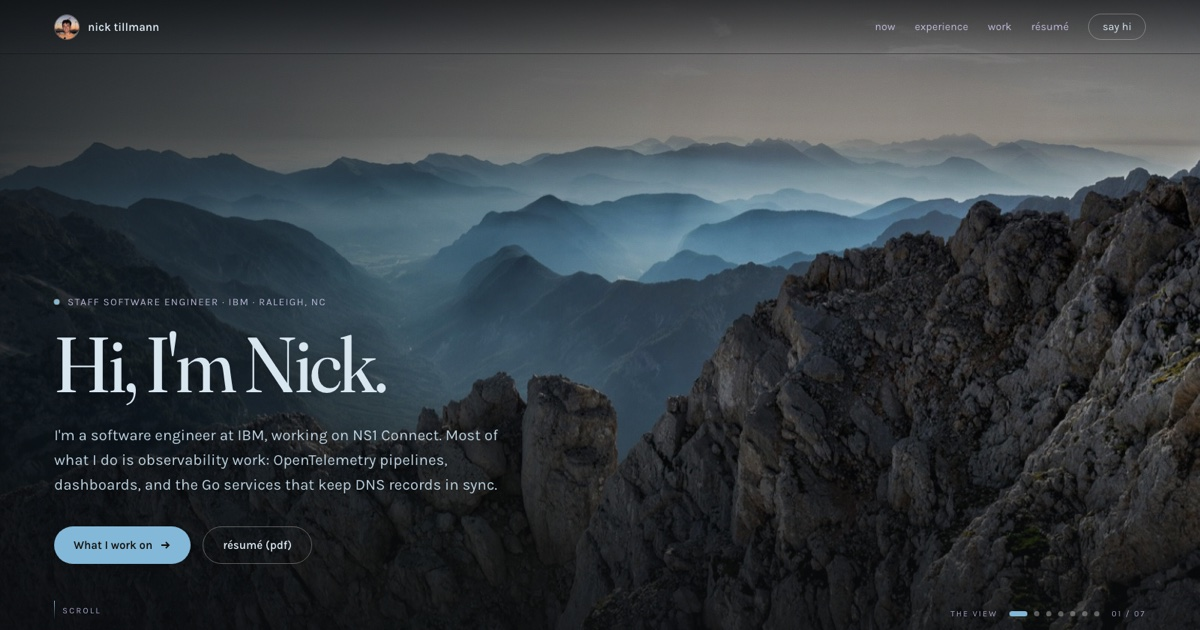
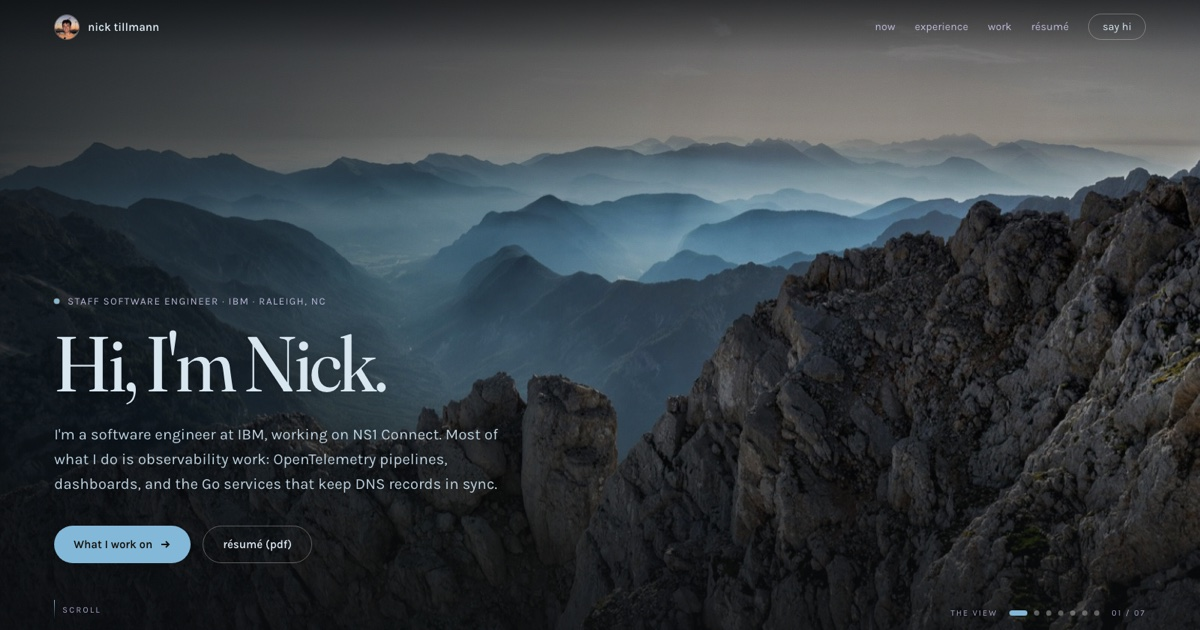
Fade the nav in instead of snapping it at 40px
The bar transitioned `background` from a linear-gradient to a flat
rgba(), which CSS cannot interpolate, so it jumped from the soft scrim
over the photo to the solid black bar in one frame. The backdrop blur
had no transition at all and appeared in the same frame.

Everything about the bar now rides one variable, --nav-solid, which
app.js ramps from 0 to 1 over the first 90px: the background alpha, the
blur, the scrim over the photo, the hairline underneath and the height.
Nothing has a threshold left, so there is nothing to snap.

diff --git a/redesign/styles.css b/redesign/styles.css
@@ -133,16 +133,25 @@ section[id] { scroll-margin-top: 84px; }
 .nav {
   position: sticky; top: 0; z-index: 30;
   display: flex; align-items: center; justify-content: space-between; gap: 24px;
-  padding: 18px var(--gutter);
-  background: linear-gradient(180deg, rgba(11,13,15,0.45), rgba(11,13,15,0));
-  border-bottom: 1px solid transparent;
-  transition: background 320ms var(--ease), border-color 320ms var(--ease), padding 320ms var(--ease);
+  /* every part of the bar is driven by --nav-solid, which app.js ramps
+     from 0 to 1 over the first 90px. it used to transition a gradient
+     into a flat colour, which CSS cannot interpolate, so the whole bar
+     snapped at 40px instead of arriving. */
+  padding: calc(18px - var(--nav-solid, 0) * 5px) var(--gutter);
+  background-color: rgba(11, 13, 15, calc(var(--nav-solid, 0) * 0.9));
+  backdrop-filter: blur(calc(var(--nav-solid, 0) * 14px));
 }
-.nav.is-scrolled {
-  background: rgba(11, 13, 15, 0.9);
-  backdrop-filter: blur(14px);
-  border-bottom-color: var(--line);
-  padding-top: 13px; padding-bottom: 13px;
+/* the scrim that keeps the brand legible over a bright photo, gone by the
+   time the solid bar has taken over */
+.nav::before {
+  content: ""; position: absolute; inset: 0; z-index: -1; pointer-events: none;
+  background: linear-gradient(180deg, rgba(11,13,15,0.5), rgba(11,13,15,0));
+  opacity: calc(1 - var(--nav-solid, 0));
+}
+/* and the hairline underneath it, on the same ramp */
+.nav::after {
+  content: ""; position: absolute; left: 0; right: 0; bottom: 0; height: 1px;
+  background: var(--line); opacity: var(--nav-solid, 0); pointer-events: none;
 }
 .nav__brand { display: flex; align-items: center; gap: 11px; font-weight: 600; font-size: 15px; }
 .nav__brand img { width: 34px; height: 34px; border-radius: 50%; object-fit: cover; border: 1px solid var(--edge); transition: transform 400ms var(--ease); }

diff --git a/redesign/index.html b/redesign/index.html
@@ -27,8 +27,8 @@
 <link rel="preconnect" href="https://fonts.googleapis.com">
 <link rel="preconnect" href="https://fonts.gstatic.com" crossorigin>
 <link rel="stylesheet" href="https://fonts.googleapis.com/css2?family=Fraunces:opsz,wght,SOFT,WONK@9..144,300..600,0..100,0..1&family=Karla:wght@300..600&family=IBM+Plex+Mono:wght@400;500&display=swap">
-<link rel="stylesheet" href="styles.css?v=1790131421">
-<link rel="stylesheet" href="themes.css?v=1790131421">
+<link rel="stylesheet" href="styles.css?v=1790131678">
+<link rel="stylesheet" href="themes.css?v=1790131678">
 <script>
   // set the theme before first paint so there is no flash of the wrong one
   try {
@@ -353,6 +353,6 @@
 </footer>
 
 
-<script src="app.js?v=1790131421"></script>
+<script src="app.js?v=1790131678"></script>
 </body>
 </html>

diff --git a/redesign/themes.css b/redesign/themes.css
@@ -27,6 +27,13 @@
 :root[data-theme="light"] .bg,
 :root[data-theme="light"] .scenes { display: none; }
 
+/* the themes that drop the photography paint their own flat bar, so the
+   hero scrim has nothing to do */
+:root[data-theme="light"] .nav::before, :root[data-theme="light"] .nav::after,
+:root[data-theme="flat"] .nav::before, :root[data-theme="flat"] .nav::after,
+:root[data-theme="terminal"] .nav::before, :root[data-theme="terminal"] .nav::after,
+:root[data-theme="swiss"] .nav::before, :root[data-theme="swiss"] .nav::after { display: none; }
+
 :root[data-theme="light"] .nav {
   background: rgba(244, 241, 234, 0.86);
   border-bottom: 1px solid var(--line);

diff --git a/redesign/app.js b/redesign/app.js
@@ -205,6 +205,9 @@
     requestAnimationFrame(function () {
       var y = window.scrollY;
 
+      // the bar fades in over the first 90px rather than flipping at 40
+      var solid = Math.min(1, Math.max(0, (y - 6) / 90));
+      root.style.setProperty('--nav-solid', solid.toFixed(3));
       nav.classList.toggle('is-scrolled', y > 40);
       document.documentElement.classList.toggle('is-scrolled', y > 40);
 
